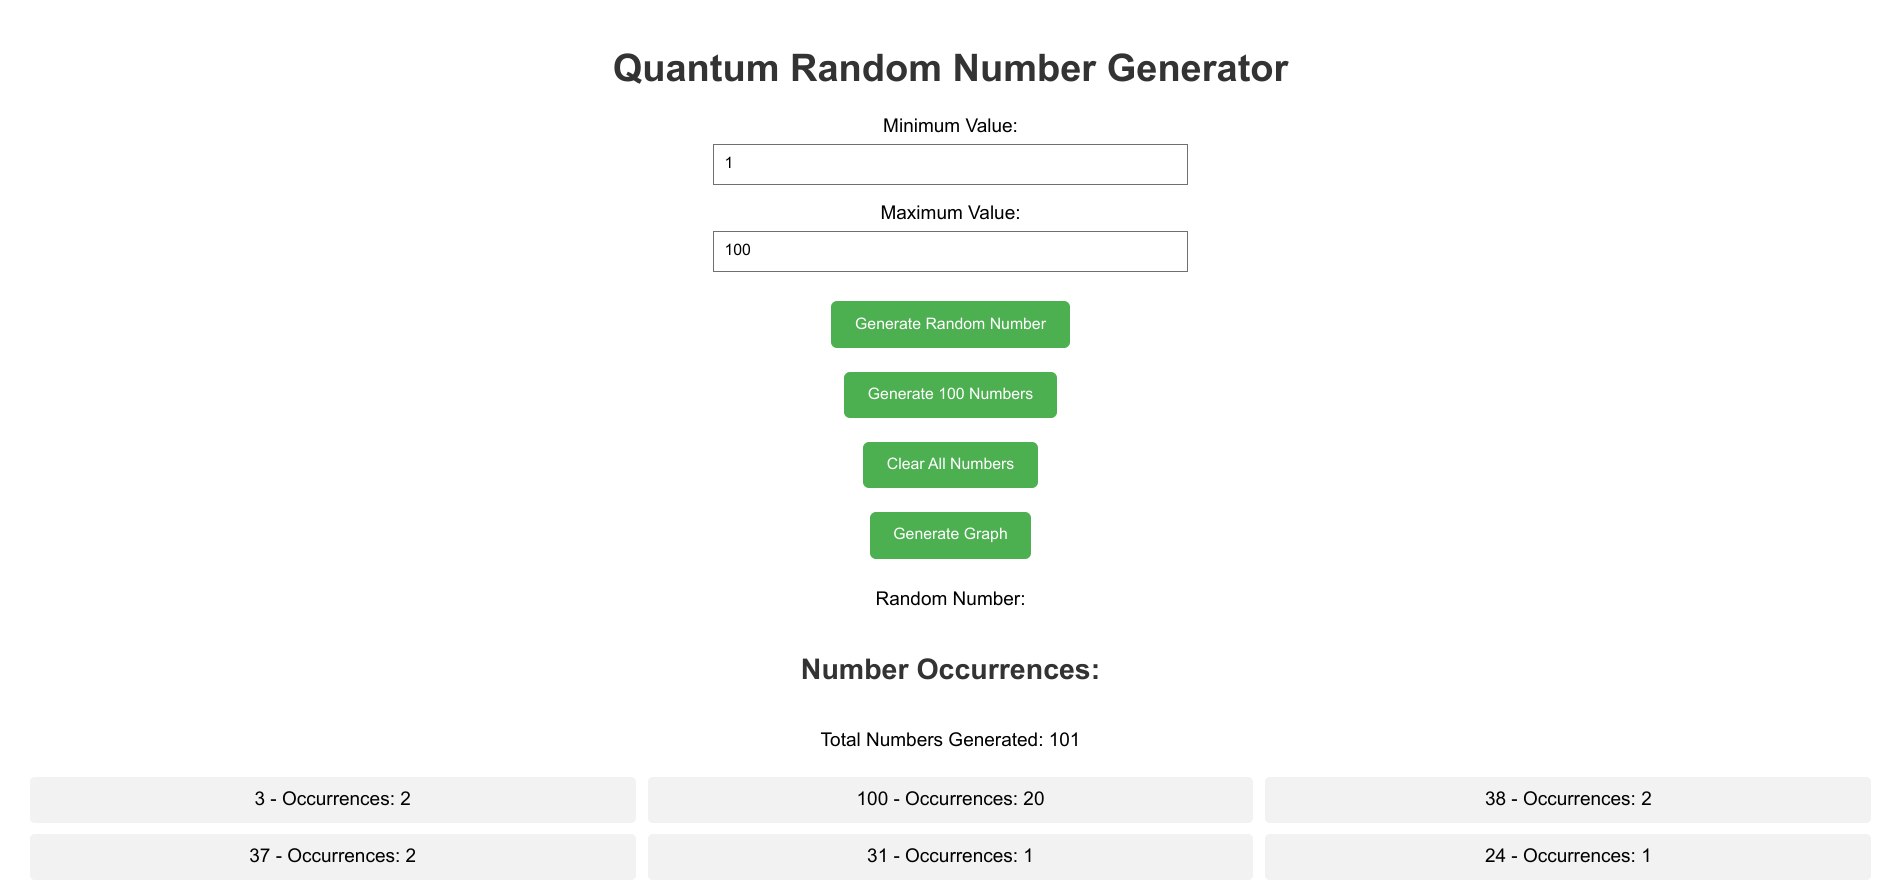
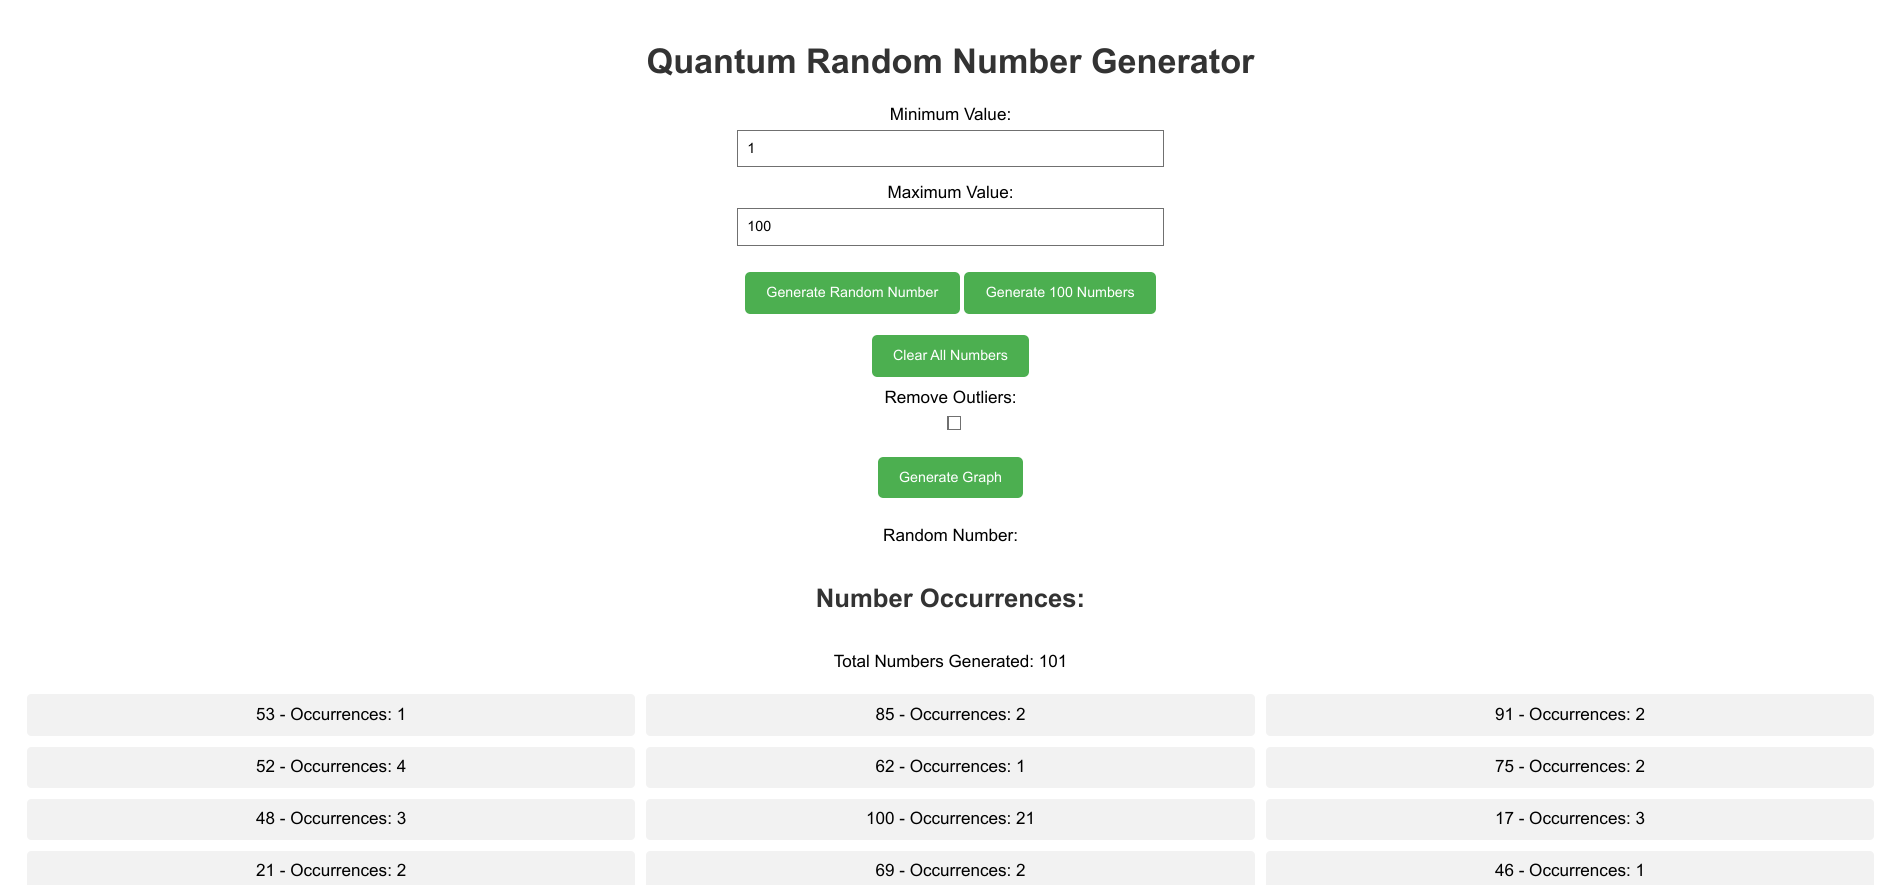
chore: updated README.md and pics to reflect new feats

diff --git a/README.md b/README.md
@@ -5,23 +5,27 @@ This project is an implementation of a quantum random number generator using the
 ## Getting Started
 
 1. Clone this repository:
+
 ```bash
 git clone https://github.com/Kairos-T/QRNG
 cd QRNG
 ```
 
 2. (Optional) Create a virtual environment:
+
 ```bash
 sudo python3 -m venv venv
 source venv/bin/activate
 ```
 
 3. Install the dependencies:
+
 ```bash
 pip install -r requirements.txt
 ```
 
 4. Run the application:
+
 ```bash
 python3 app.py
 ```
@@ -29,31 +33,53 @@ python3 app.py
 5. Open the application in your browser at http://localhost:5000
 
 ## Features
+
 - Entering a specified range
 - Generating a single random number
 - Generating 100 random numbers
 - Clearing the generated numbers
 - Visualising the distribution of the generated numbers using a bar chart
+- <details> 
+    <summary>Removing outliers from the distribution to improve accuracy of the distribution representation</summary>
+
+  - This application uses the Z-score method to remove outliers. Outliers here are defined as numbers that are more than 3 standard deviations away from the mean.
+  - Mathematically, the Z-score of a data point \(x\) in a dataset is calculated using the formula:
+
+    \[z = \frac{x - \mu}{\sigma}\]
+
+    where:
+
+    - \( Z \) is the Z-score,
+    - \( x \) is the data point,
+    - \( \mu \) is the mean of the dataset, and
+    - \( \sigma \) is the standard deviation of the dataset.
+  - Data points with \( |Z| \) greater than the 3 are considered outliers and are excluded from the dataset before generating the visualization.
+  </details>
 
 ## Usage
+
 1. Enter the minimum and maximum values.
 2. Click on the "Generate" button to generate a single random number, or the "Generate 100 Numbers" button to generate 100 random numbers.
-3. Click on the "Generate Graph" button to visualise the distribution of the generated numbers.
+3. Click on the "Generate Graph" button to visualise the distribution of the generated numbers. Optionally, click on the "Remove Outliers" button to remove outliers from the distribution.
 4. Click on the "Clear" button to clear the generated numbers and the graph.
 
 ## Screenshots
+
 1. Landing Page
-![Landing Page](screenshots/QRNG.png)
+   ![Landing Page](screenshots/QRNG.png)
 
 2. Generate random number
-![Generate random number](screenshots/Gen.png)
+   ![Generate random number](screenshots/Gen.png)
 
 3. Generate 100 random numbers
-![Generate 100 random numbers](screenshots/Gen100.png)
+   ![Generate 100 random numbers](screenshots/Gen100.png)
 
 4. Visualise distribution
-![Visualise distribution](screenshots/Plt.png)
+   ![Visualise distribution](screenshots/Plt.png)
+
+5. Visualise distribution without outliers
+   ![Visualise distribution without outliers](screenshots/Plt_Outlier.png)
 
 ## Limitations
-- **Simulation** - The `qasm_simulator` is simply a classical simulator for quantum circuits, and has limitations in simulating quantum systems. Hence, there might be outliers and in the distribution of the generated numbers, as can be seen in the screenshot above.
 
+- **Simulation** - The `qasm_simulator` is a classical simulator for quantum circuits, and it has limitations in simulating quantum systems. Therefore, there might be outliers in the distribution of the generated numbers, as can be seen in the screenshot above. The application provides an option to remove outliers for a more accurate representation.
